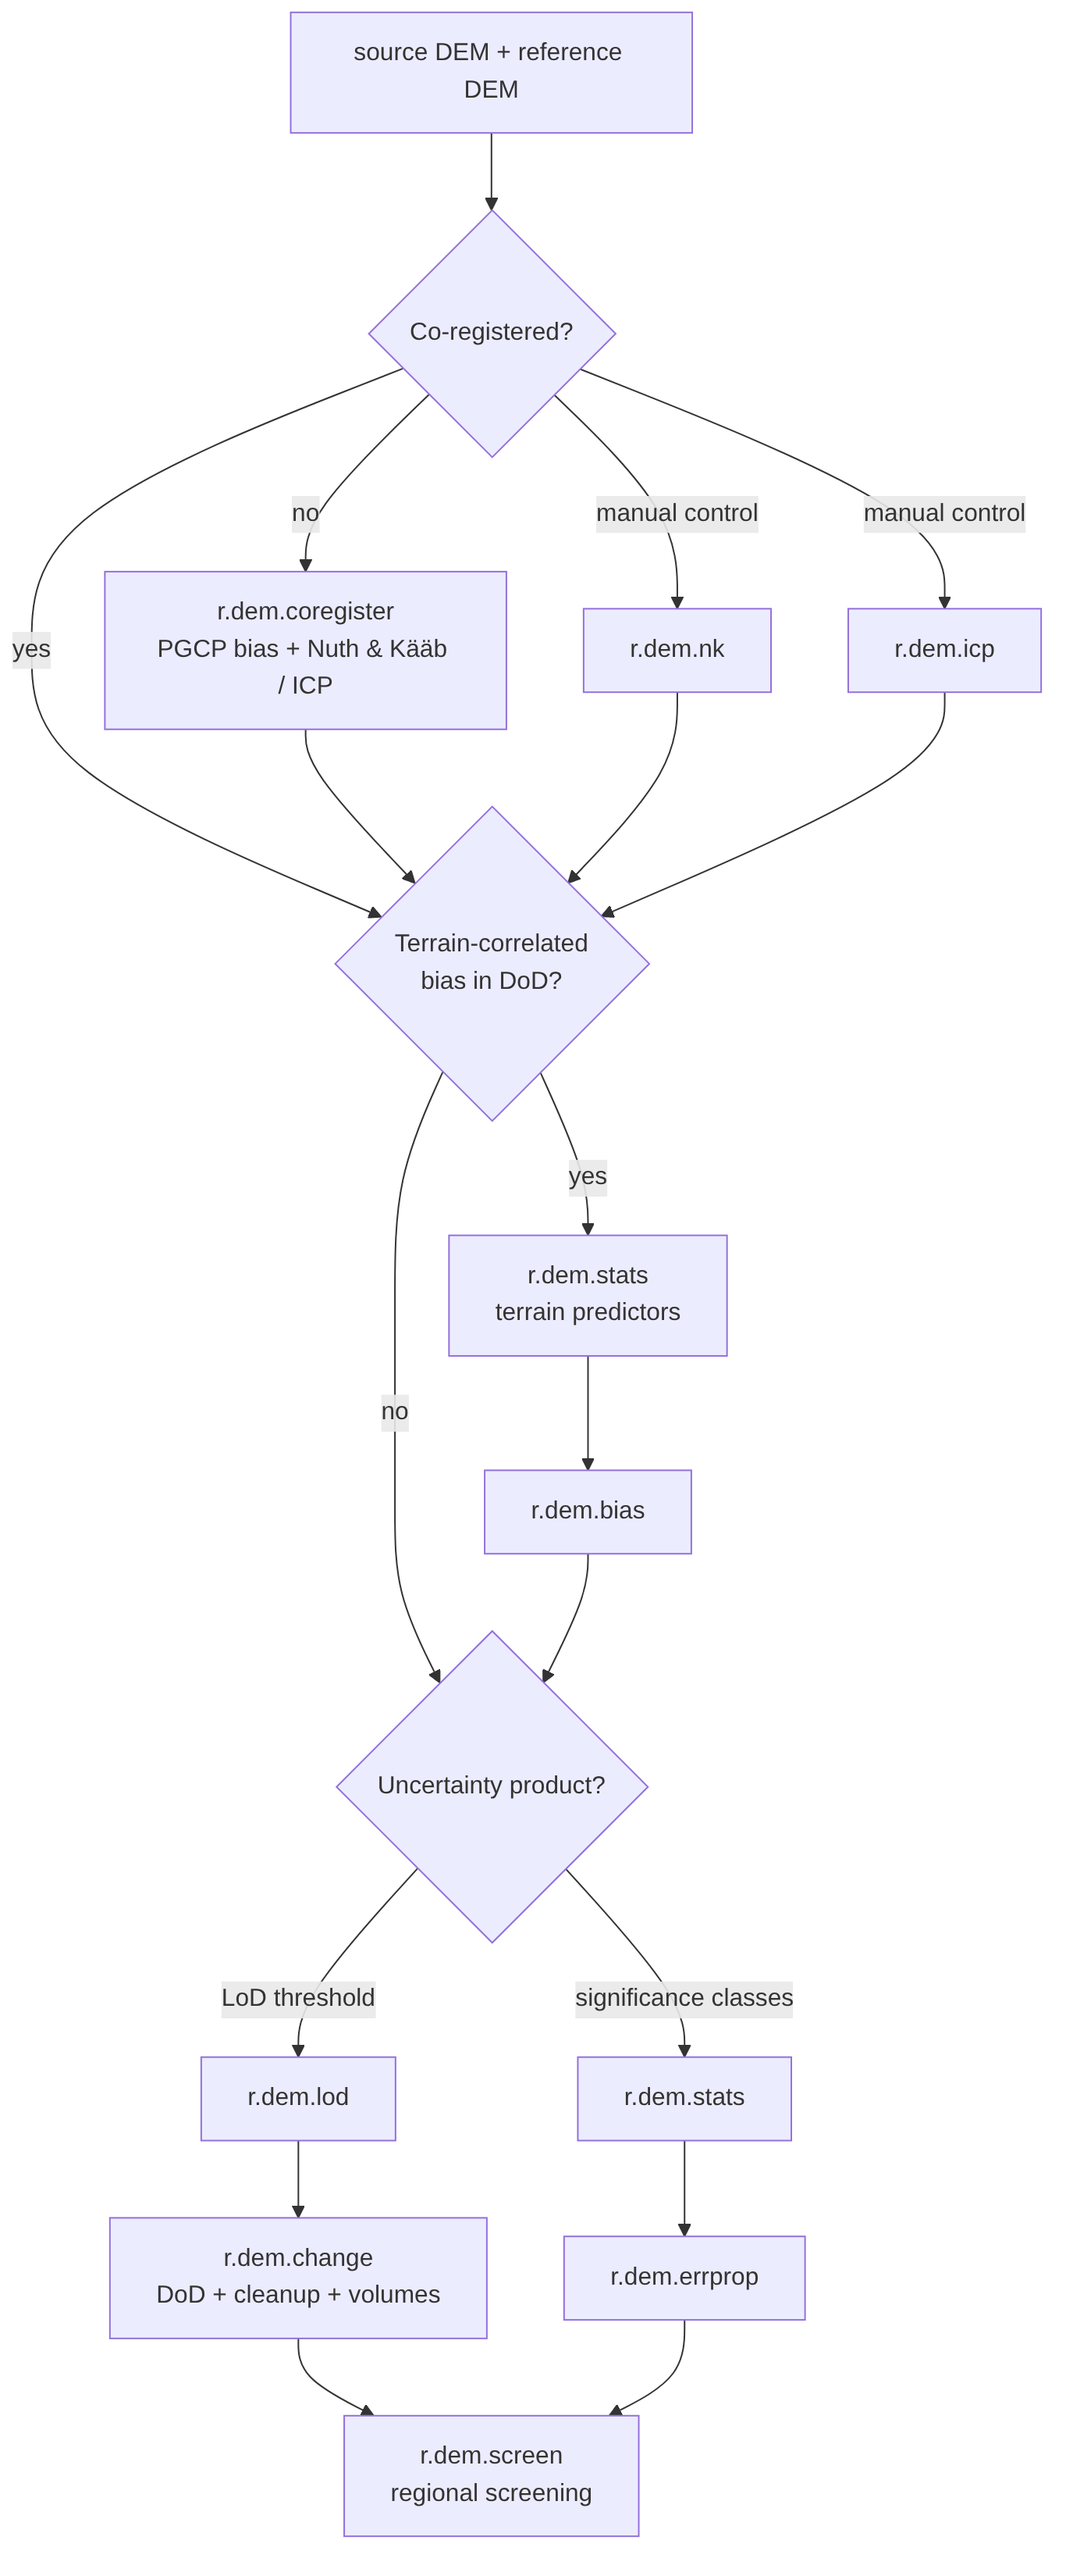
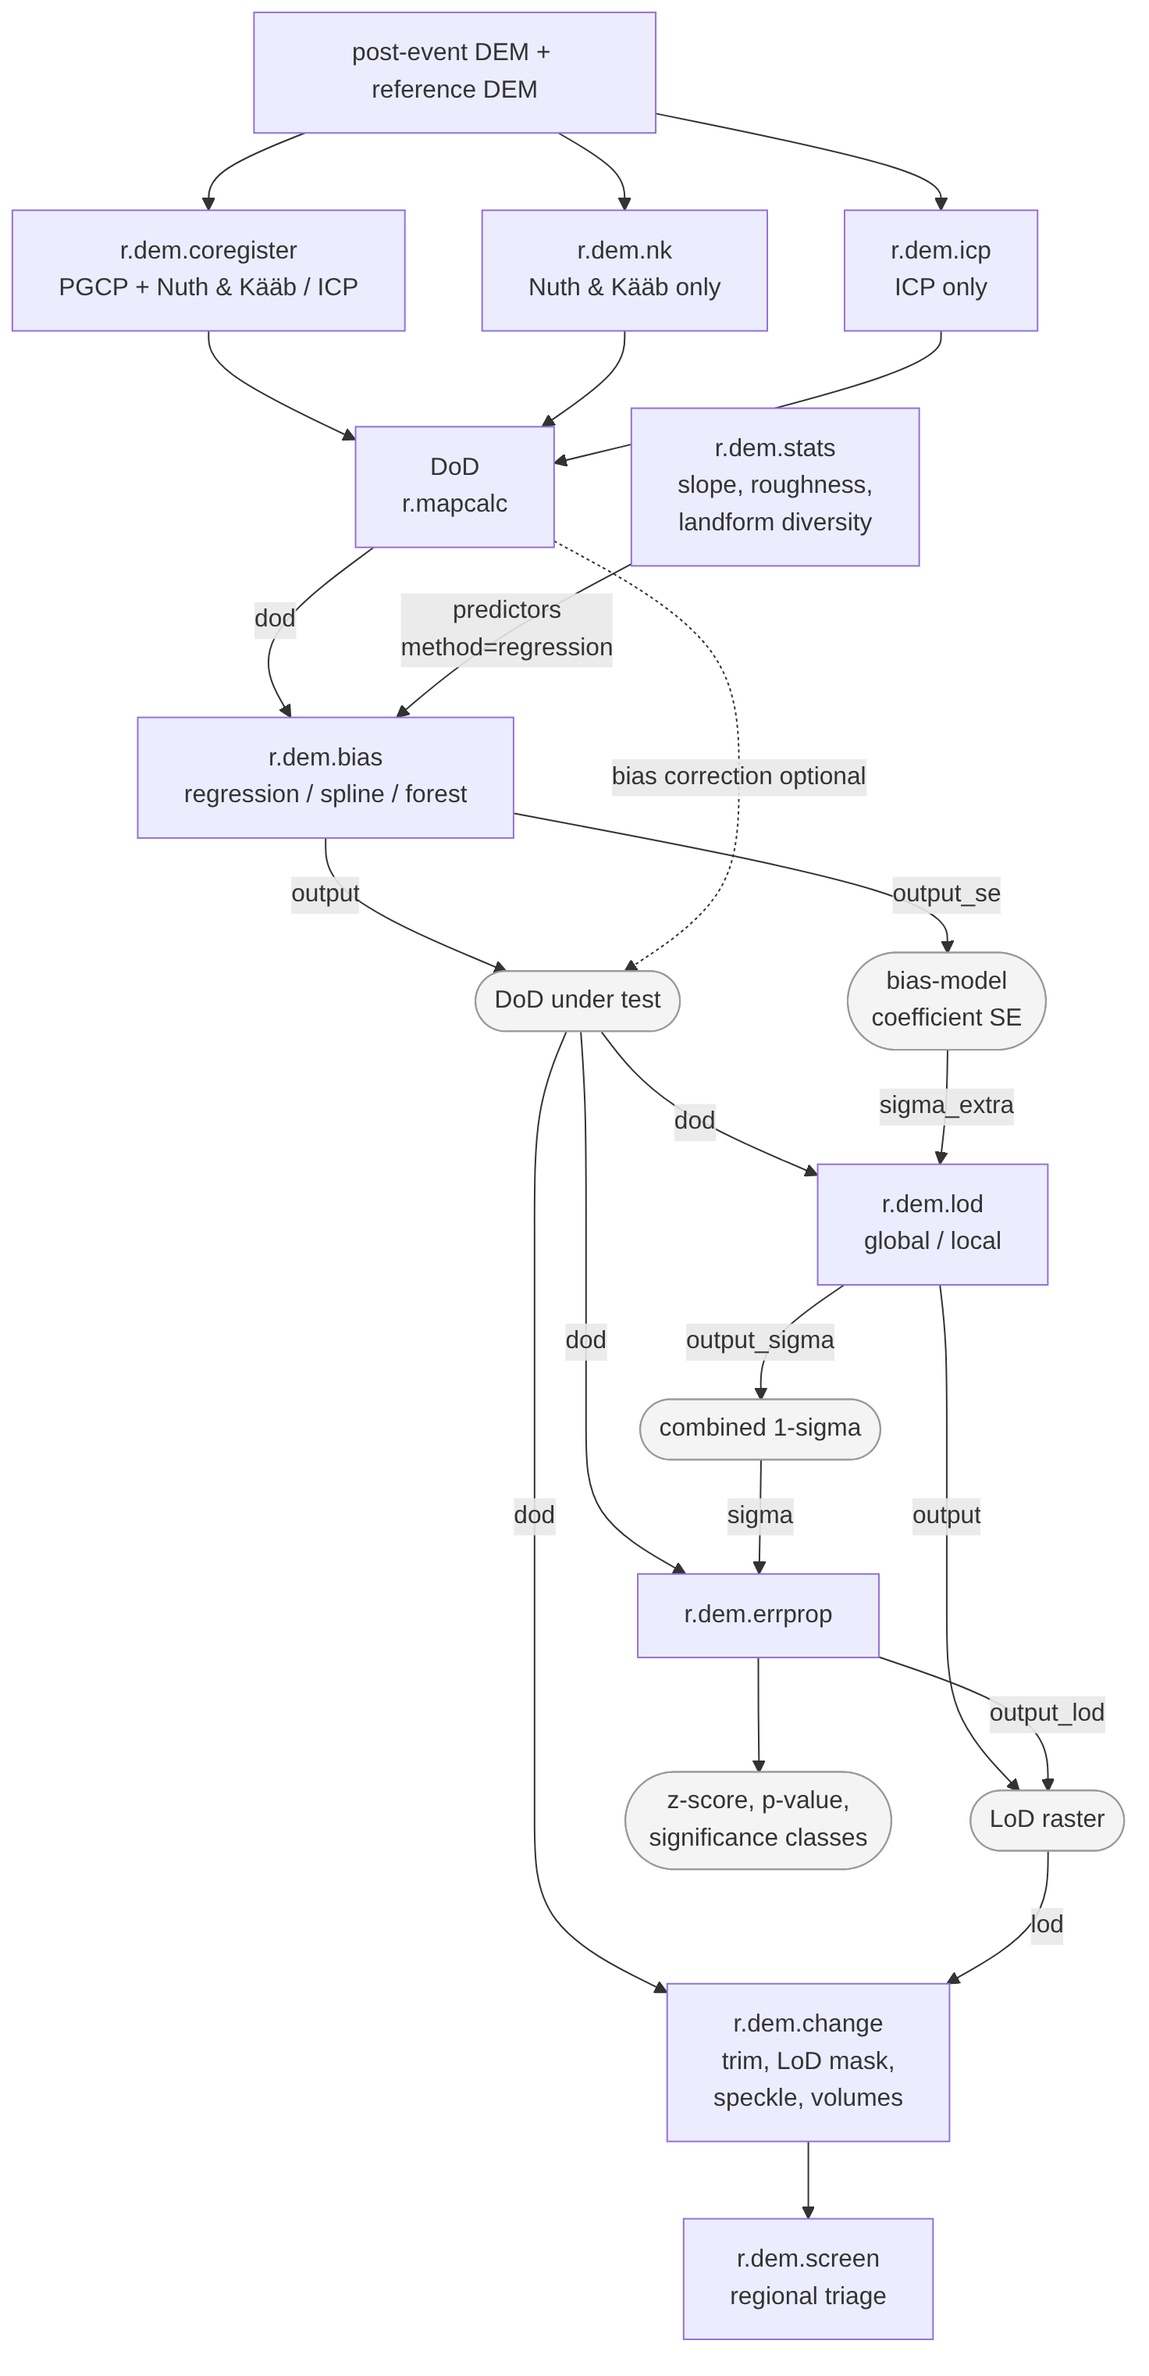
Update toolbox docs and workflow diagram

diff --git a/src/raster/r.dem/r.dem.html b/src/raster/r.dem/r.dem.html
@@ -23,8 +23,9 @@ tools:
   <dd>aligns a DEM to a reference with robust multi-scale point-to-plane
       iterative closest point (ICP)</dd>
   <dt><a href="r.dem.bias.html">r.dem.bias</a></dt>
-  <dd>removes terrain-correlated systematic bias from a DoD by regression
-      on terrain predictors over stable areas</dd>
+  <dd>removes systematic bias from a DoD by regression on terrain
+      predictors, by spline interpolation of the stable-cell residuals, or
+      by a local trimmed median under a canopy mask</dd>
   <dt><a href="r.dem.stats.html">r.dem.stats</a></dt>
   <dd>computes terrain surface metrics (slope, roughness, geomorphon
       diversity, local error sigma) used as DoD predictors</dd>
@@ -45,18 +46,46 @@ tools:
 <h2>NOTES</h2>
 
 The alignment tools (<em>r.dem.coregister</em>, <em>r.dem.nk</em>,
-<em>r.dem.icp</em>) remove rigid offset and rotation.
-<em>r.dem.bias</em> then removes terrain-correlated systematic bias that
-survives alignment. <em>r.dem.stats</em> supplies the terrain predictors
-that <em>r.dem.bias</em> and <em>r.dem.errprop</em> consume.
-<em>r.dem.lod</em>, <em>r.dem.change</em>, and <em>r.dem.errprop</em>
-turn the aligned, debiased surfaces into significance-masked change and
-volume products. DoD computation, cleanup, LoD masking, and volumetric
-summary all live in <em>r.dem.change</em> as a single pipeline; there is
-no separate DoD tool.
+<em>r.dem.icp</em>) remove rigid offset and rotation. Everything
+downstream of them operates on the DEM of difference rather than on the
+DEM pair: <em>r.dem.bias</em> takes a DoD through <b>dod</b> and returns a
+corrected one, so bias removal sits between differencing and change
+detection. <em>r.dem.stats</em> supplies the terrain predictors for
+<em>r.dem.bias</em> <b>method=regression</b> only; <b>method=spline</b>
+and <b>method=forest</b> need no predictors. <em>r.dem.lod</em> and
+<em>r.dem.change</em> also accept <b>dem</b> and <b>reference</b>
+directly, which skips the explicit DoD when no bias correction is wanted.
 
 <p>
-The following chart shows how the tools work together:
+<em>r.dem.lod</em> and <em>r.dem.errprop</em> compose rather than compete.
+<em>r.dem.lod</em> builds the combined 1-sigma surface from the windowed
+dispersion, the long-wavelength excess over <b>floor</b>, and any
+<b>sigma_extra</b> rasters (the bias-model coefficient SE from
+<em>r.dem.bias</em> <b>output_se</b> is the usual one), and writes it to
+<b>output_sigma</b>. That raster is the intended <b>sigma</b> input to
+<em>r.dem.errprop</em>, which converts it into z-scores, p-values, and
+significance classes. Either tool's LoD raster drives the <b>lod</b> input
+of <em>r.dem.change</em>.
+
+<p>
+Every sigma entering <em>r.dem.errprop</em> must be independent of the DoD
+being tested. A windowed dispersion of the same map inflates sigma exactly
+where change is real and suppresses its own significance, so
+<em>r.dem.stats</em> <b>metric=error_sigma_local</b> applied to the DoD
+under test is not a valid uncertainty source for it. Note also that
+<em>r.dem.lod</em> <b>output_sigma</b> merges a per-cell random component
+with a spatially correlated one, so it must not be aggregated to volume
+uncertainty by sqrt(N) averaging over the volumes <em>r.dem.change</em>
+reports.
+
+<p>
+DoD cleanup, LoD masking, and volumetric summary all live in
+<em>r.dem.change</em> as a single pipeline; there is no separate DoD tool.
+
+<p>
+The following chart shows how the tools work together. Rectangles are
+tools, rounded nodes are rasters, and edge labels are the option keys that
+carry each raster:
 
 <div align="center" style="margin: 10px">
 <a href="r_dem_workflow.png">

diff --git a/src/raster/r.dem/r.dem.md b/src/raster/r.dem/r.dem.md
@@ -25,8 +25,9 @@ tools:
     aligns a DEM to a reference with robust multi-scale point-to-plane
     iterative closest point (ICP)
 - [r.dem.bias](r.dem.bias.md)  
-    removes terrain-correlated systematic bias from a DoD by regression
-    on terrain predictors over stable areas
+    removes systematic bias from a DoD by regression on terrain
+    predictors, by spline interpolation of the stable-cell residuals, or
+    by a local trimmed median under a canopy mask
 - [r.dem.stats](r.dem.stats.md)  
     computes terrain surface metrics (slope, roughness, geomorphon
     diversity, local error sigma) used as DoD predictors
@@ -45,33 +46,75 @@ tools:
 ## NOTES
 
 The alignment tools (*r.dem.coregister*, *r.dem.nk*, *r.dem.icp*) remove
-rigid offset and rotation. *r.dem.bias* then removes terrain-correlated
-systematic bias that survives alignment. *r.dem.stats* supplies the
-terrain predictors that *r.dem.bias* and *r.dem.errprop* consume.
-*r.dem.lod*, *r.dem.change*, and *r.dem.errprop* turn the aligned,
-debiased surfaces into significance-masked change and volume products.
-DoD computation, cleanup, LoD masking, and volumetric summary all live in
+rigid offset and rotation. Everything downstream of them operates on the
+DEM of difference rather than on the DEM pair: *r.dem.bias* takes a DoD
+through **dod** and returns a corrected one, so bias removal sits between
+differencing and change detection. *r.dem.stats* supplies the terrain
+predictors for *r.dem.bias* **method=regression** only; **method=spline**
+and **method=forest** need no predictors. *r.dem.lod* and *r.dem.change*
+also accept **dem** and **reference** directly, which skips the explicit
+DoD when no bias correction is wanted.
+
+*r.dem.lod* and *r.dem.errprop* compose rather than compete. *r.dem.lod*
+builds the combined 1-sigma surface from the windowed dispersion, the
+long-wavelength excess over **floor**, and any **sigma_extra** rasters
+(the bias-model coefficient SE from *r.dem.bias* **output_se** is the
+usual one), and writes it to **output_sigma**. That raster is the
+intended **sigma** input to *r.dem.errprop*, which converts it into
+z-scores, p-values, and significance classes. Either tool's LoD raster
+drives the **lod** input of *r.dem.change*.
+
+Every sigma entering *r.dem.errprop* must be independent of the DoD being
+tested. A windowed dispersion of the same map inflates sigma exactly where
+change is real and suppresses its own significance, so *r.dem.stats*
+**metric=error_sigma_local** applied to the DoD under test is not a valid
+uncertainty source for it. Note also that *r.dem.lod* **output_sigma**
+merges a per-cell random component with a spatially correlated one, so it
+must not be aggregated to volume uncertainty by sqrt(N) averaging over the
+volumes *r.dem.change* reports.
+
+DoD cleanup, LoD masking, and volumetric summary all live in
 *r.dem.change* as a single pipeline; there is no separate DoD tool.
 
-The following chart shows how the tools work together:
+The following chart shows how the tools work together. Rectangles are
+tools, rounded nodes are rasters, and edge labels are the option keys that
+carry each raster:
 
 ```mermaid
 flowchart TD
-    S["source DEM + reference DEM"] --> Q1{"Co-registered?"}
-    Q1 -- "no" --> CR["r.dem.coregister<br/>PGCP bias + Nuth &amp; Kääb / ICP"]
-    Q1 -- "manual control" --> NK["r.dem.nk"]
-    Q1 -- "manual control" --> ICP["r.dem.icp"]
-    Q1 -- "yes" --> Q2
-    CR --> Q2{"Terrain-correlated<br/>bias in DoD?"}
-    NK --> Q2
-    ICP --> Q2
-    Q2 -- "yes" --> ST["r.dem.stats<br/>terrain predictors"] --> B["r.dem.bias"]
-    Q2 -- "no" --> Q3
-    B --> Q3{"Uncertainty product?"}
-    Q3 -- "LoD threshold" --> LOD["r.dem.lod"] --> CH["r.dem.change<br/>DoD + cleanup + volumes"]
-    Q3 -- "significance classes" --> ST2["r.dem.stats"] --> EP["r.dem.errprop"]
-    CH --> SC["r.dem.screen<br/>regional screening"]
-    EP --> SC
+    SRC["post-event DEM + reference DEM"]
+    SRC --> CR["r.dem.coregister<br/>PGCP + Nuth &amp; Kääb / ICP"]
+    SRC --> NK["r.dem.nk<br/>Nuth &amp; Kääb only"]
+    SRC --> ICP["r.dem.icp<br/>ICP only"]
+
+    CR --> DOD["DoD<br/>r.mapcalc"]
+    NK --> DOD
+    ICP --> DOD
+
+    STATS["r.dem.stats<br/>slope, roughness,<br/>landform diversity"]
+    DOD -->|dod| BIAS["r.dem.bias<br/>regression / spline / forest"]
+    STATS -->|"predictors<br/>method=regression"| BIAS
+
+    BIAS -->|output| CDOD(["DoD under test"])
+    BIAS -->|output_se| SE(["bias-model<br/>coefficient SE"])
+    DOD -.->|bias correction optional| CDOD
+
+    CDOD -->|dod| LOD["r.dem.lod<br/>global / local"]
+    SE -->|sigma_extra| LOD
+    LOD -->|output| LODR(["LoD raster"])
+    LOD -->|output_sigma| SIGMA(["combined 1-sigma"])
+
+    CDOD -->|dod| EP["r.dem.errprop"]
+    SIGMA -->|sigma| EP
+    EP -->|output_lod| LODR
+    EP --> CLASS(["z-score, p-value,<br/>significance classes"])
+
+    CDOD -->|dod| CH["r.dem.change<br/>trim, LoD mask,<br/>speckle, volumes"]
+    LODR -->|lod| CH
+    CH --> SC["r.dem.screen<br/>regional triage"]
+
+    classDef data fill:#f4f4f4,stroke:#999,color:#333
+    class CDOD,SE,LODR,SIGMA,CLASS data
 ```
 
 ## REFERENCES
